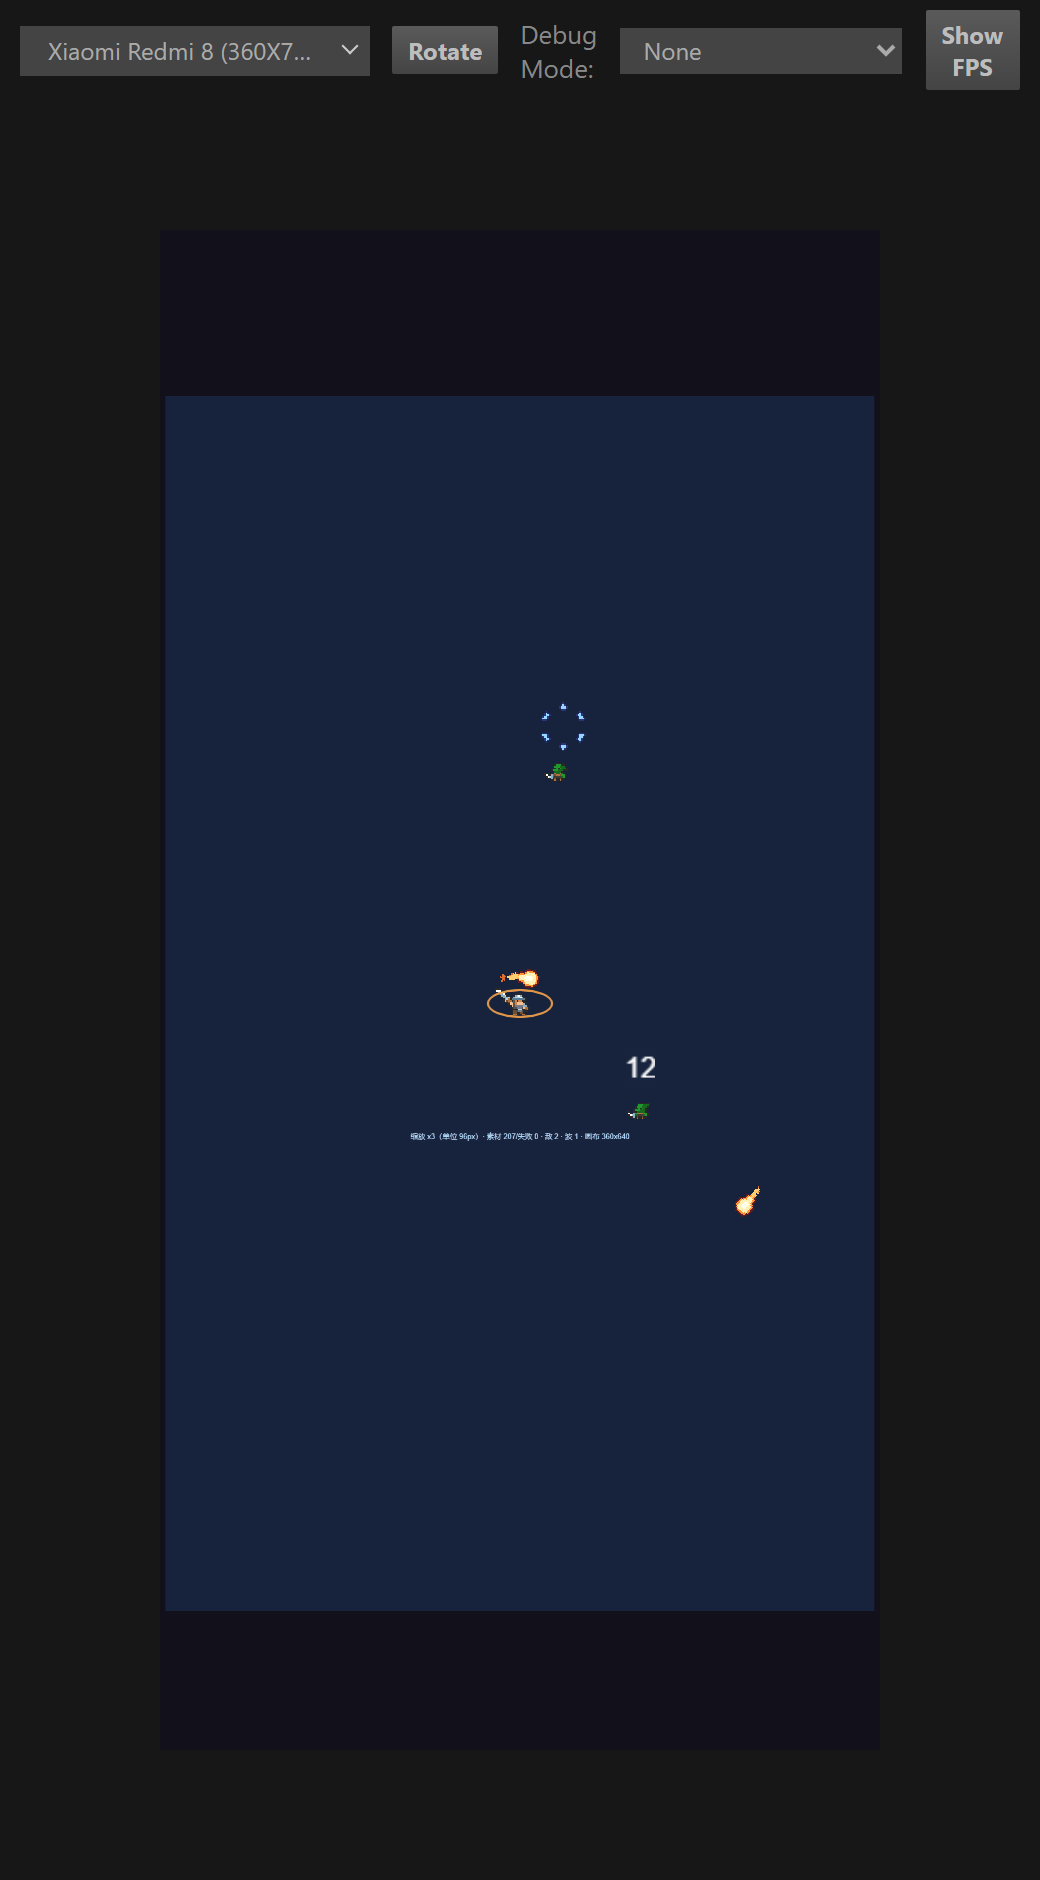
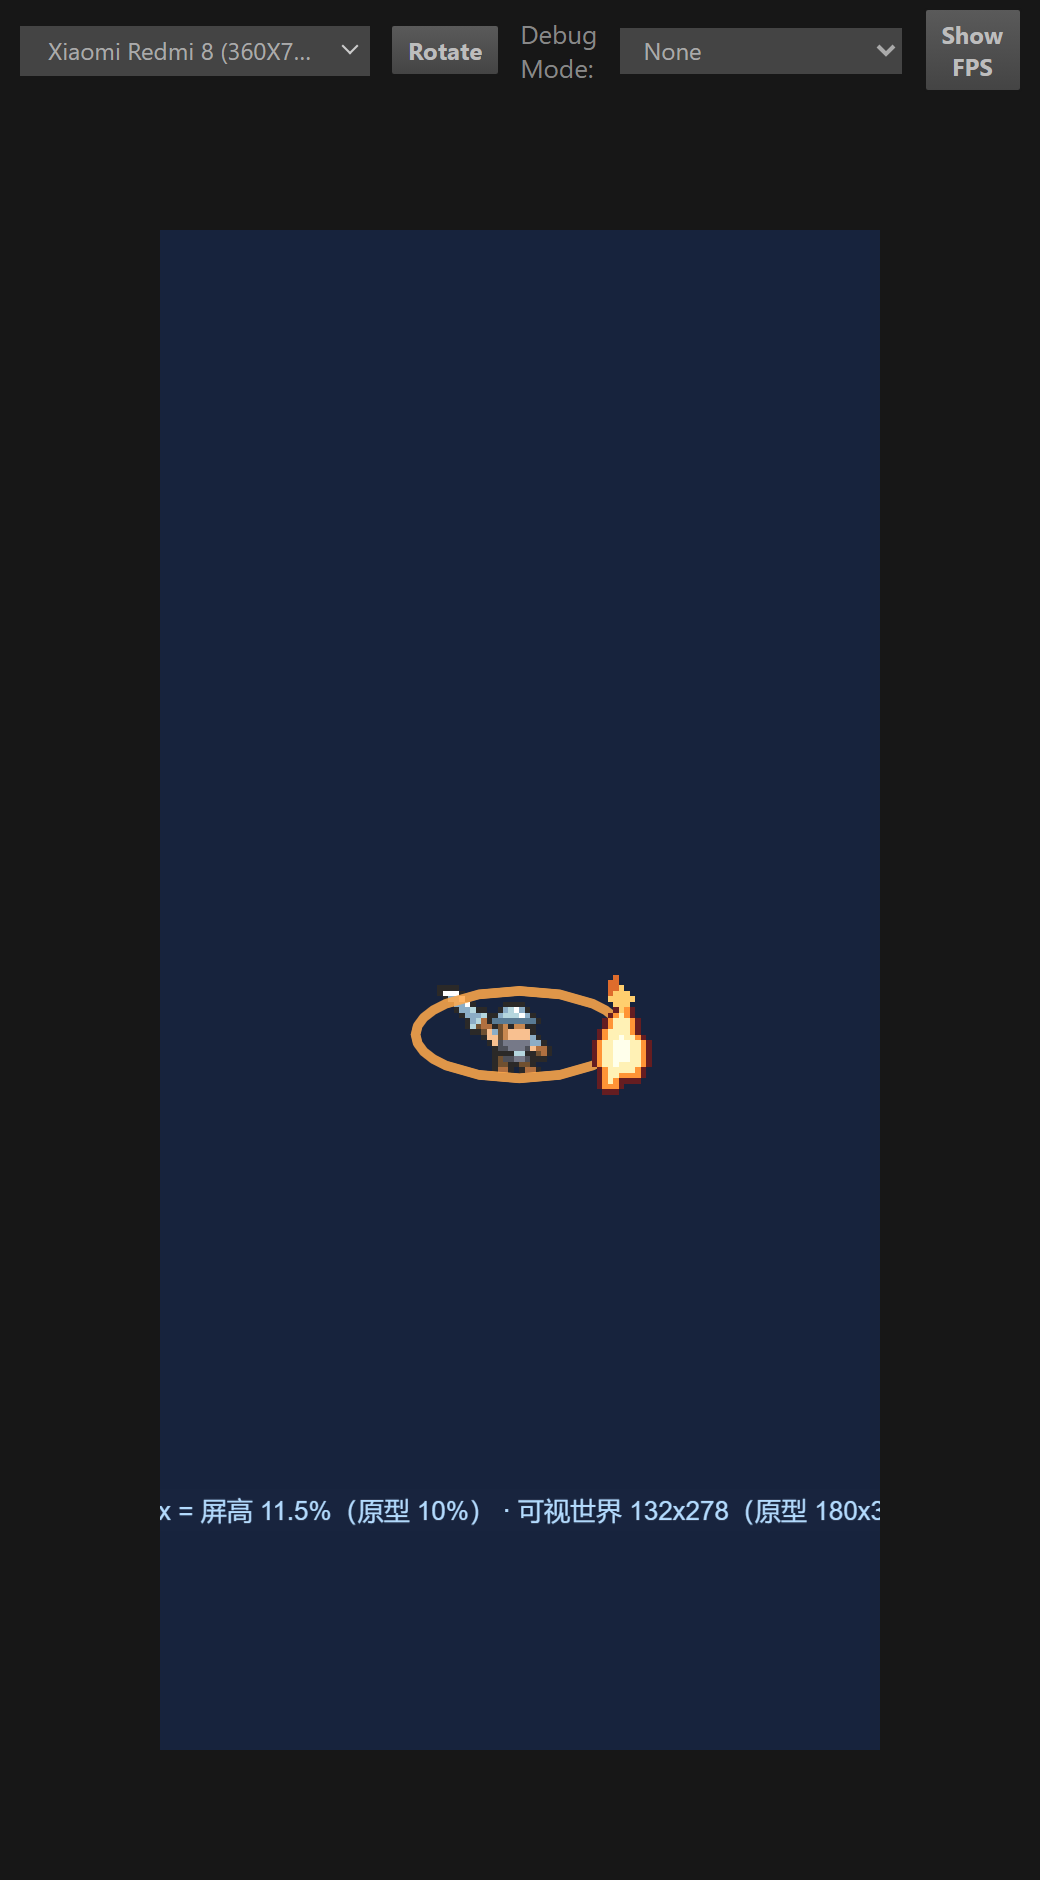
实机验证通过：单位 3.6% -> 11.5%（3.2 倍），与 DEMO 观感一致
用户重启编辑器后，Playwright 连 7456 实测运行时数值：
- designSize  1280x720 -> 360x640   （代码强制设定生效）
- visibleSize 1280x2702 -> 360x760
- worldScale  3（写死） -> 2.731（自适应 max(360/180,760/320) x 1.15）
- 单位占屏高  3.6% -> 11.5%（3.2 倍）
- 场上单位    12 -> 17（含开场铺怪）

视觉对比（VLM 读 verify-final.png 对比图）：
- 主角大小与 DEMO『比较接近』
- 『已经达到了 DEMO 的水平，但在细节处理上还有提升空间』

方法论沉淀：Cocos 预览是网页服务（7456），Playwright 可直接查运行时状态 + 截图；
编辑器不重编译时可运行时注入预演；问视觉模型要问相对问题（其绝对估计不可信）。

diff --git a/docs/known-issues.md b/docs/known-issues.md
@@ -163,3 +163,44 @@ unit.children.length                // 场上单位数
 
 以上是**注入模拟**的结果。代码已改好，但**编辑器需要重编译**（切到编辑器窗口或预览点刷新）
 才能真正生效；预览一直在跑旧编译产物。
+
+---
+
+## KI-005 / KI-004 已修并**实机验证通过**（2026-10-13，用户重启编辑器后）
+
+### 运行时数值对比（Playwright 连 7456 实测）
+
+| 指标 | 修复前 | 修复后 |
+|---|---|---|
+| `cc.view.getDesignResolutionSize()` | 1280 x 720 | **360 x 640** ✅ |
+| `cc.view.getVisibleSize()` | 1280 x 2702 | **360 x 760** ✅ |
+| `World.scale` | 3（写死） | **2.731**（自适应 `max(360/180,760/320) x 1.15`）✅ |
+| 单位占屏高 | **3.6%** | **11.5%**（3.2 倍）✅ |
+| 场上单位数 | 12 | 17（含开场铺怪）✅ |
+
+### 视觉对比结论（本地 VLM 读 `screenshots/verify-final.png`，原话）
+
+| 问题 | 回答 |
+|---|---|
+| 现在 vs 之前，主角哪张更大？ | 「现在更大」 |
+| 现在的主角 vs DEMO，接近吗？ | **「比较接近」** ✅ |
+| 现在画面上的怪物？ | 「不多，但看得比较清楚」 |
+| 现在达到 DEMO 观感了吗？ | **「已经达到了 DEMO 的水平，但在细节处理上还有提升空间」** ✅ |
+
+### 三个根因（全部记录在案）
+
+1. **运行时设计分辨率是 1280x720**，不是我在 project.json 里写的 360x640
+   → 修法：`GameRoot.onLoad()` 里强制 `view.setDesignResolutionSize(360,640,FIXED_WIDTH)`
+2. **相机写死 `scale = ZOOM`**，长屏上会多露出 22% 竖向世界
+   → 修法：自适应 cover `s = max(visW/VIEW_W, visH/VIEW_H) * ZOOM_MUL`
+3. **生成半径写死 195~235**，比可视区还大，怪走 2~5 秒才进画面（屏幕发空）
+   → 修法：由可视尺寸推导 + 开场铺怪
+
+### 方法论沉淀（本次最大的收获）
+
+**"改代码 → 截图 → 读图 → 与参照物对比"这个闭环，比自己算公式可靠得多。**
+
+- Cocos 预览是网页服务（`127.0.0.1:7456`）→ **Playwright 可以直接连、查运行时状态、截图**
+- 编辑器不重编译时，可以**运行时注入**改动来预演效果（禁用组件 + 直接改 `world.scale/position`）
+- 问视觉模型要问**相对问题**（"哪张更大/更像"），它的**绝对估计不可信**（会把 11.5% 说成"三分之二"）
+- 剩余差距（细节/特效/氛围）是**下一个里程碑**的事，不是尺寸问题
